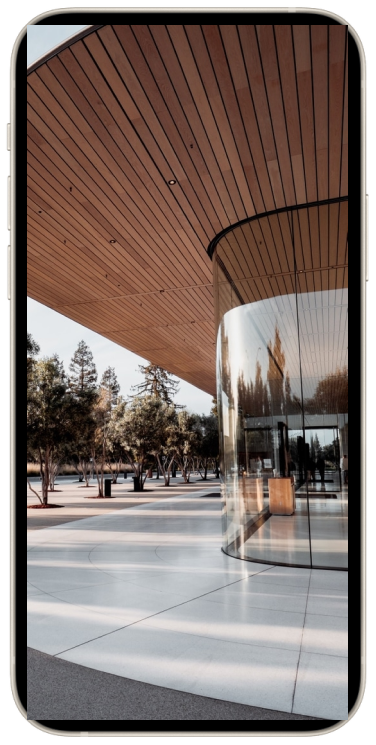
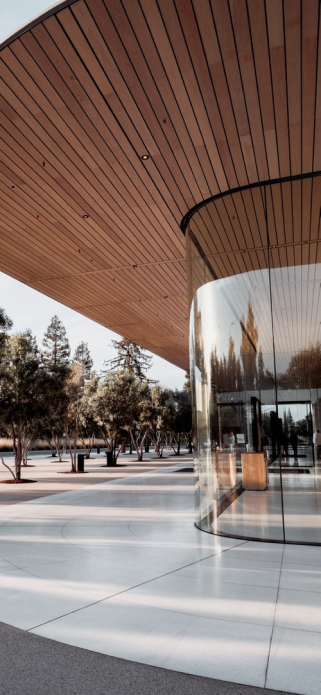
fix section 4

diff --git a/index.html b/index.html
@@ -35,8 +35,6 @@
 
 
 
-
-
     <!-- 1-я секция на белом фоне -->
     <div class="section-1">
 
@@ -149,26 +147,20 @@
 
 
 
-
-
-
-
-    
     <!-- 4-я секция на белом фоне -->
-
-
-
-<!-- 
     <div class="section-4">
         <div class="section-4-content">
             <h4>TECHNOLOGY</h4>
             <h2>Use H(app)y to give your digital photos some pop.</h2>
             <p>Lorem ipsum dolor sit amet, consectetur adipiscing elit. Suspendisse varius enim in eros elementum tristique. Duis cursus, mi quis viverra ornare, eros dolor interdum nulla, ut commodo diam libero vitae erat. Aenean faucibus nibh et justo cursus id rutrum lorem imperdiet. Nunc ut sem vitae risus tristique posuere.</p>
         </div>
-        <img src="./assets/image/sec-4-img.png" alt="phone" width="376" height="645">
+        <div class="section-4-content-phone">
+            <img class="section-4-content-phone-img" src="./assets/image/sec-4-img.png" alt="phone" width="321" height="695">
+            <img class="section-4-content-phone-border" src="./assets/image/sec-4-phone-border.png" alt="phone" width="376" height="744">
+        </div>
     </div>
 
- -->
+
 
 
 

diff --git a/styles/style.css b/styles/style.css
@@ -284,30 +284,11 @@ font-size: 1.8rem;
 
 
 
-
-
-
-
-
-
-
-
-
-
-
-
-
-
-
-
-
-
-
-
 /* секция 4 на белом фоне */
 .section-4 {
-    display: flex;
+    position: relative;
     margin: 100px auto;
+    display: flex;
     justify-content: space-around;
     max-width: 1200px;
     height: 450px;
@@ -318,6 +299,111 @@ font-size: 1.8rem;
     margin: 3%;
     max-width: 420px;
 }
+
+
+.section-4-content-phone {
+    position: relative;
+    top: 40px;
+    right: 300px;
+}
+.section-4-content-phone-img {
+    position: absolute;
+    top: 25px;
+    left: 28px;
+
+}
+.section-4-content-phone-border {
+    position: absolute;
+}
+
+
+
+
+
+
+
+
+
+
+
+
+
+
+
+
+
+
+
+
+
+
+
+
+
+
+
+
+
+
+
+
+
+
+
+
+
+
+
+
+
+
+
+
+
+
+
+
+
+
+
+
+
+
+
+
+
+
+
+
+
+
+
+
+
+
+
+
+
+
+
+
+
+
+
+
+
+
+
+
+
+
+
+
+
+
+
+
+
 
 
 
